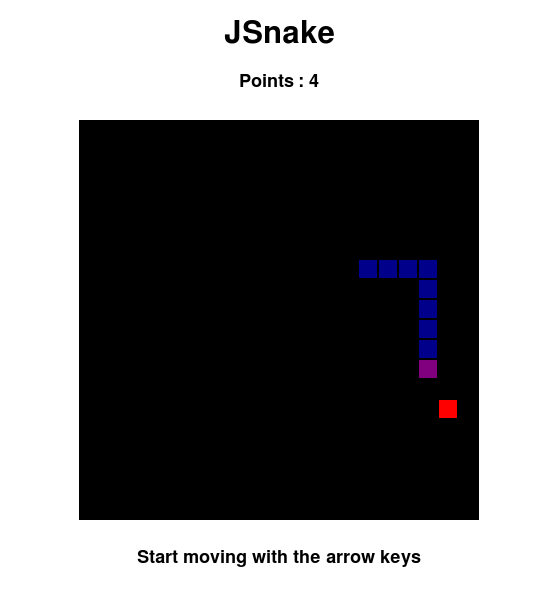
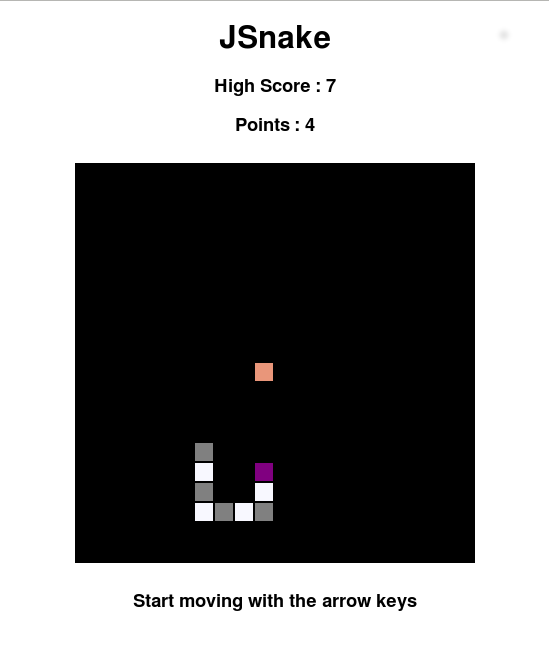
Adding high score

diff --git a/jsnake.js b/jsnake.js
@@ -143,8 +143,13 @@
         date.setTime(date.getTime() + (days*24*60*60*1000));
         expires = "; expires=" + date.toUTCString(); 
         
-        document.cookie = "coockieHighScore=" + 
+        
+        if ( document.getElementById('points').innerHTML > 
+                document.getElementById('highScore').innerHTML )
+            document.cookie = "coockieHighScore=" + 
                 document.getElementById('points').innerHTML + expires + "; path=/";
+        else 
+            return;
     }
 
     function readCookie() {

diff --git a/README.md b/README.md
@@ -1,6 +1,6 @@
 # JavaScriptSnake
 
-A simpe snake version in javascript
+A simpe snake version in javascript.
 
 ![Screenshot](/jsnake.png)
 
